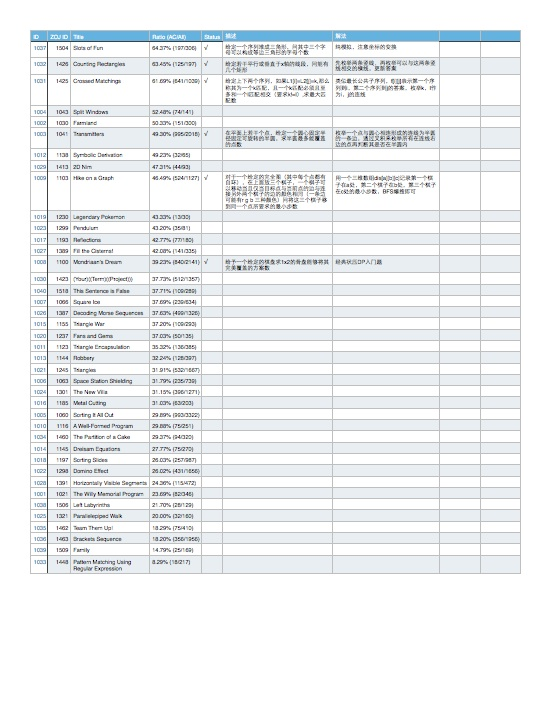
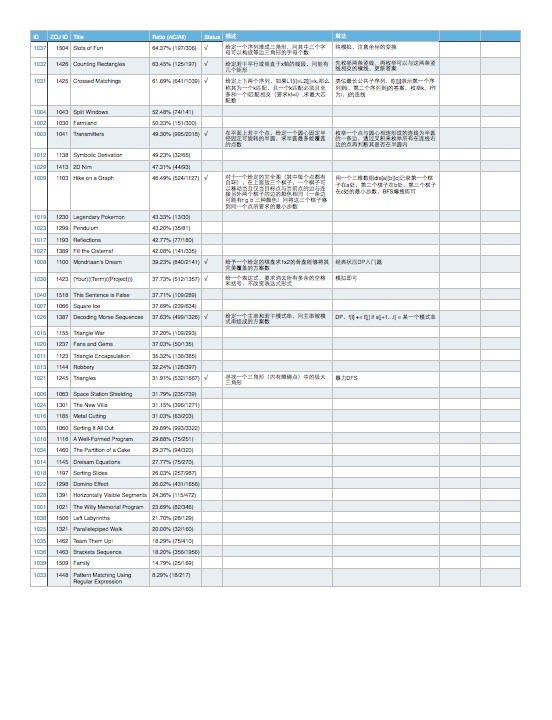
Add 1245

Changed region(s): [[0.0616, 0.3667, 0.9547, 0.825]]

diff --git a/1245/1245.search.cpp b/1245/1245.search.cpp
@@ -1,0 +1,93 @@
+//
+//  1423.cpp
+//  Workspace
+//
+//  Created by Orpine on 13-11-9.
+//  Copyright (c) 2013年 Orpine. All rights reserved.
+//
+
+//Header
+#include <cstdio>
+#include <cstdlib>
+#include <cstring>
+#include <cmath>
+#include <ctime>
+
+#include <iostream>
+#include <algorithm>
+#include <vector>
+#include <set>
+#include <map>
+#include <string>
+#include <queue>
+#include <stack>
+
+using namespace std;
+
+//Macro
+#define rep(i, a, b) for (size_t i = a; i <= b; ++i)
+#define drep(i, a, b) for (size_t i = a; i >= b; --i)
+#define irep(i, e, x) for (size_t i = x; i; i = e[i].next)
+#define sqr(x) ((x) * (x))
+
+typedef long long ll;
+const int oo = ~0u>>2;
+const double inf = 1e300;
+const double eps = 1e-6;
+
+//Variable
+char s[300][300];
+int n;
+//Program
+int DFS1(int x, int l, int r, int sum)
+{
+	if (x <= 0 || x >= n || l <= x - 1 || r >= 2 * n - x)
+		return sum;
+	for (int i = l; i <= r; i++)
+	{
+		if (s[x][i] != '-')
+			return sum;
+	}
+	return DFS1(x - 1, l - 1, r + 1, sum + r - l + 1);
+}
+int DFS2(int x, int l, int r, int sum)
+{
+	if (x <= 0 || x >= n || l <= x - 1 || r >= 2 * n - x)
+		return sum;
+	for (int i = l; i <= r; i++)
+	{
+		if (s[x][i] != '-')
+			return sum;
+	}
+	return DFS1(x + 1, l - 1, r + 1, sum + r - l + 1);
+}
+void Work(int T)
+{
+	int ans = 0;
+	for (int i = 1; i <= n; i++)
+	{
+		gets(s[i] + 1);
+	}
+	for (int i = 1; i <= n; i++)
+	{
+		for (int j = 1; j <= 2 * n - 1; j++)
+		{
+			if (s[i][j] == '-')
+			{
+				ans = max(ans, DFS1(i, j - 1, j + 1, 1));
+				ans = max(ans, DFS2(i, j - 1, j + 1, 1));
+			}
+		}
+	}
+	printf("Triangle #%d\n", T);
+	printf("The largest triangle area is %d.\n", ans);
+}
+int main()
+{
+	int T = 0;
+	while(scanf("%d\n", &n), n != 0)
+	{
+		Work(++T);
+	}
+    return 0; 
+}
